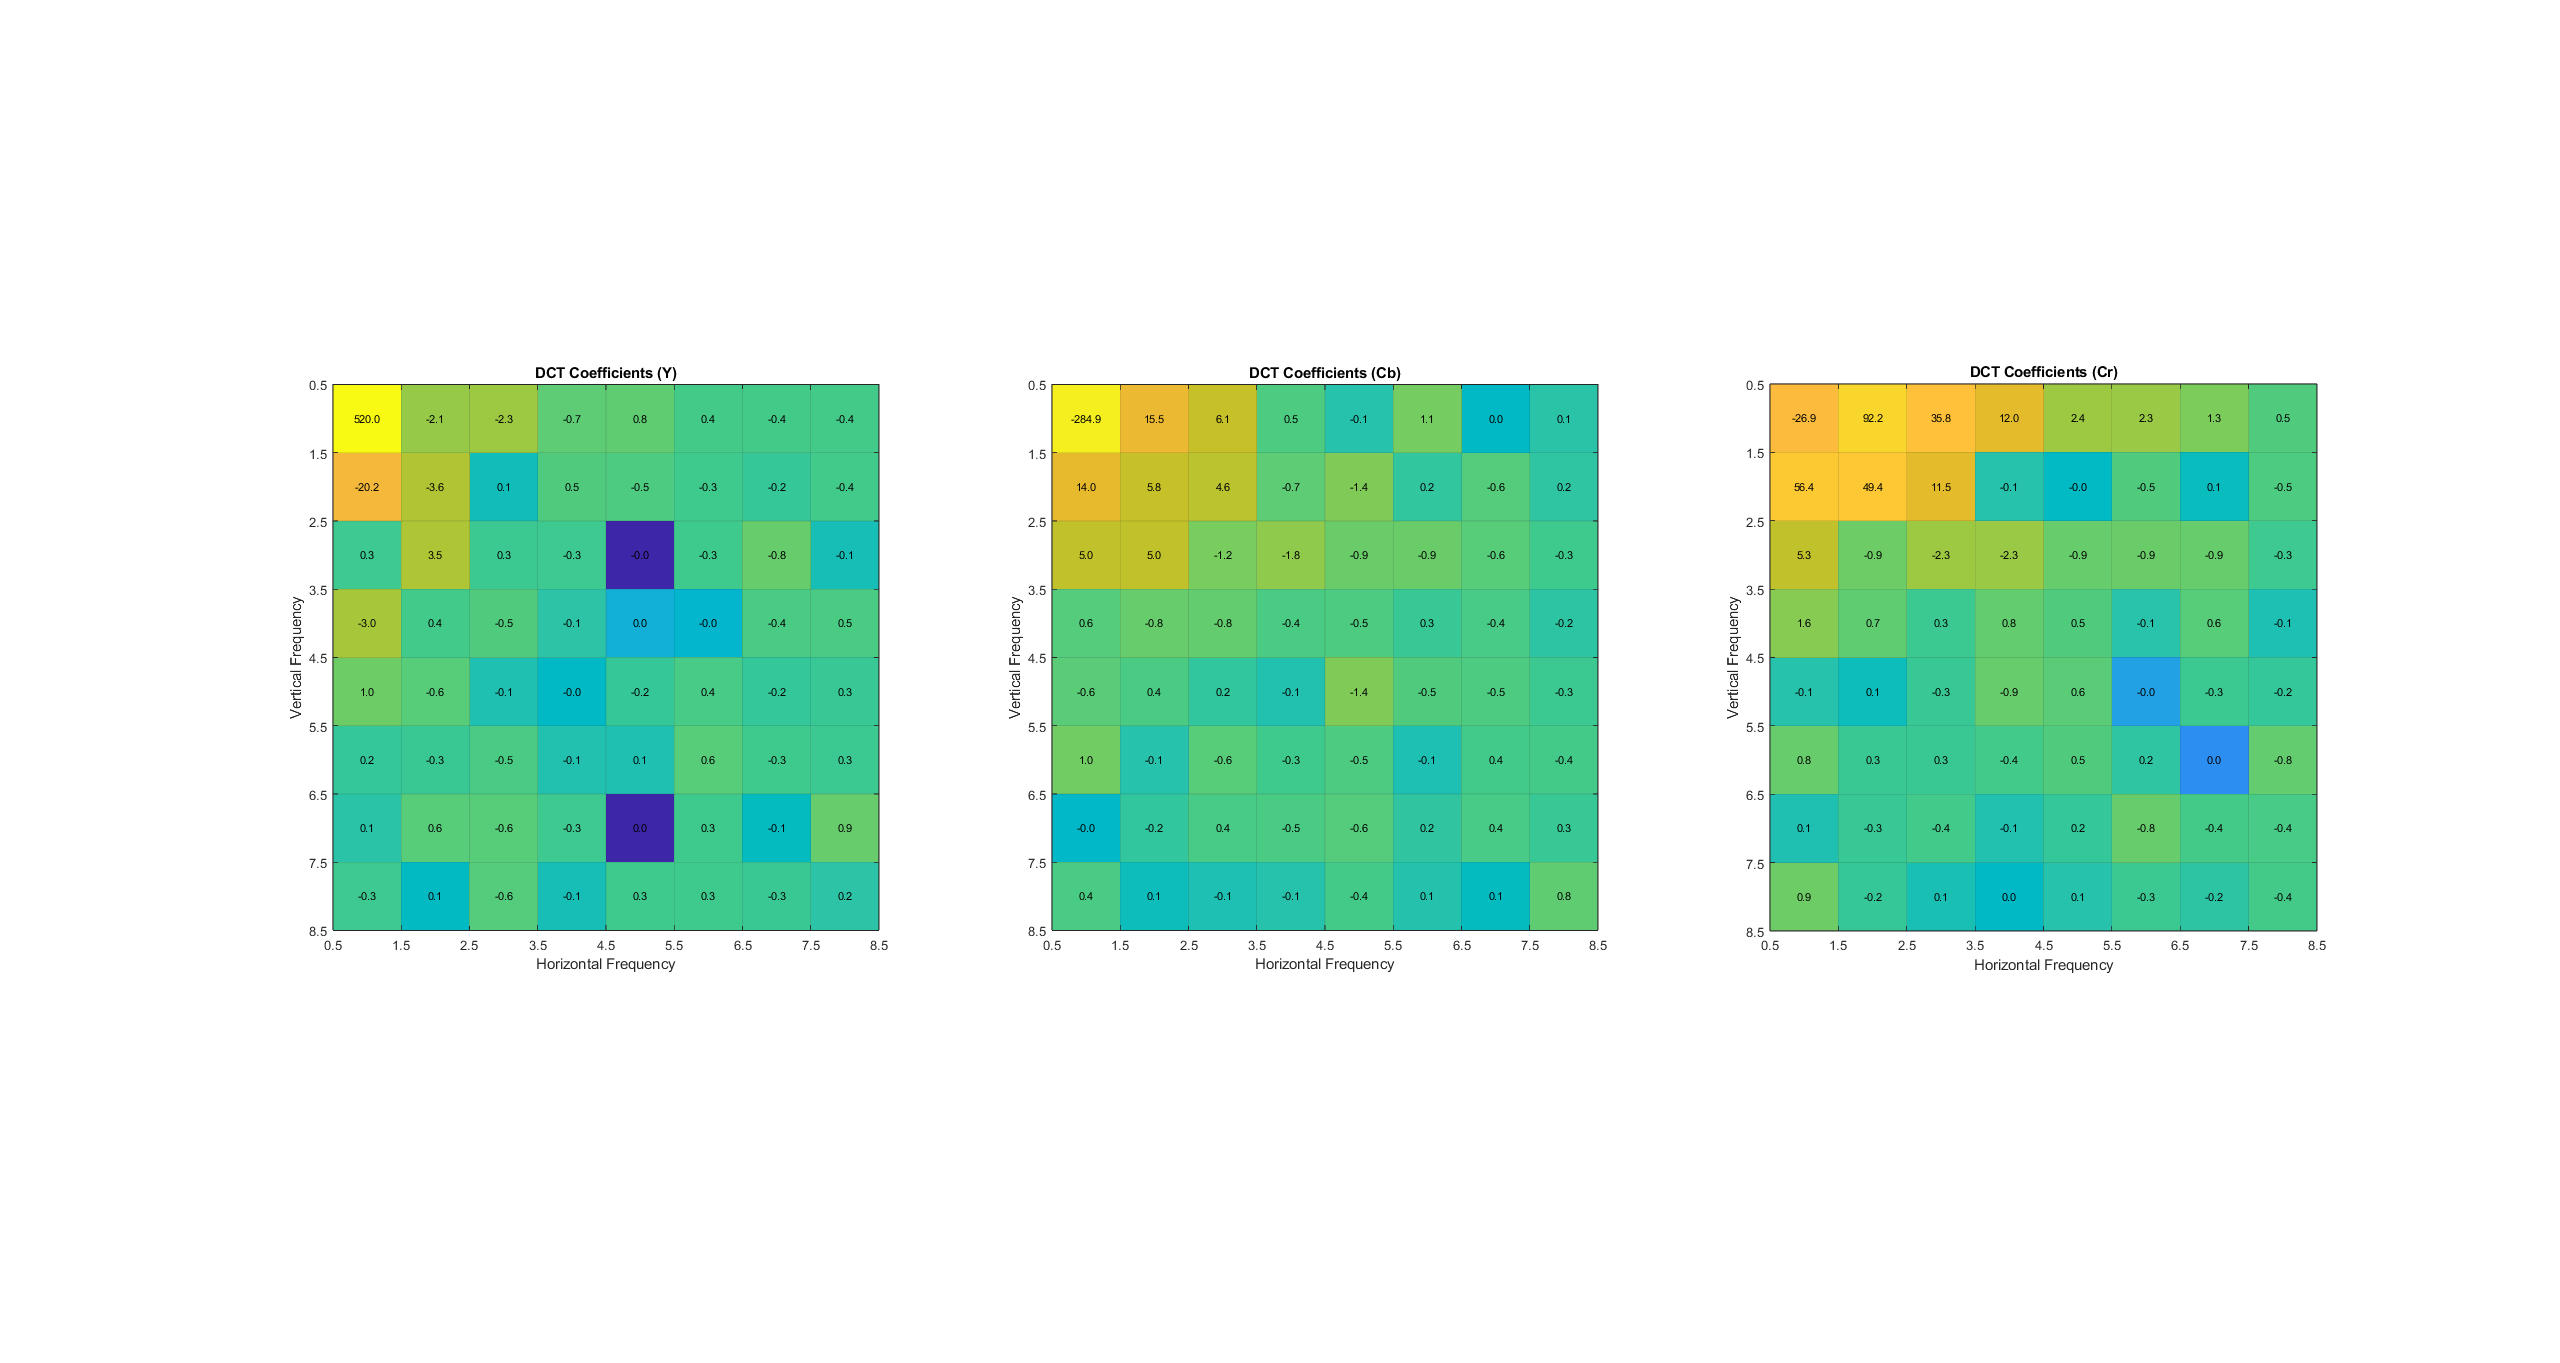
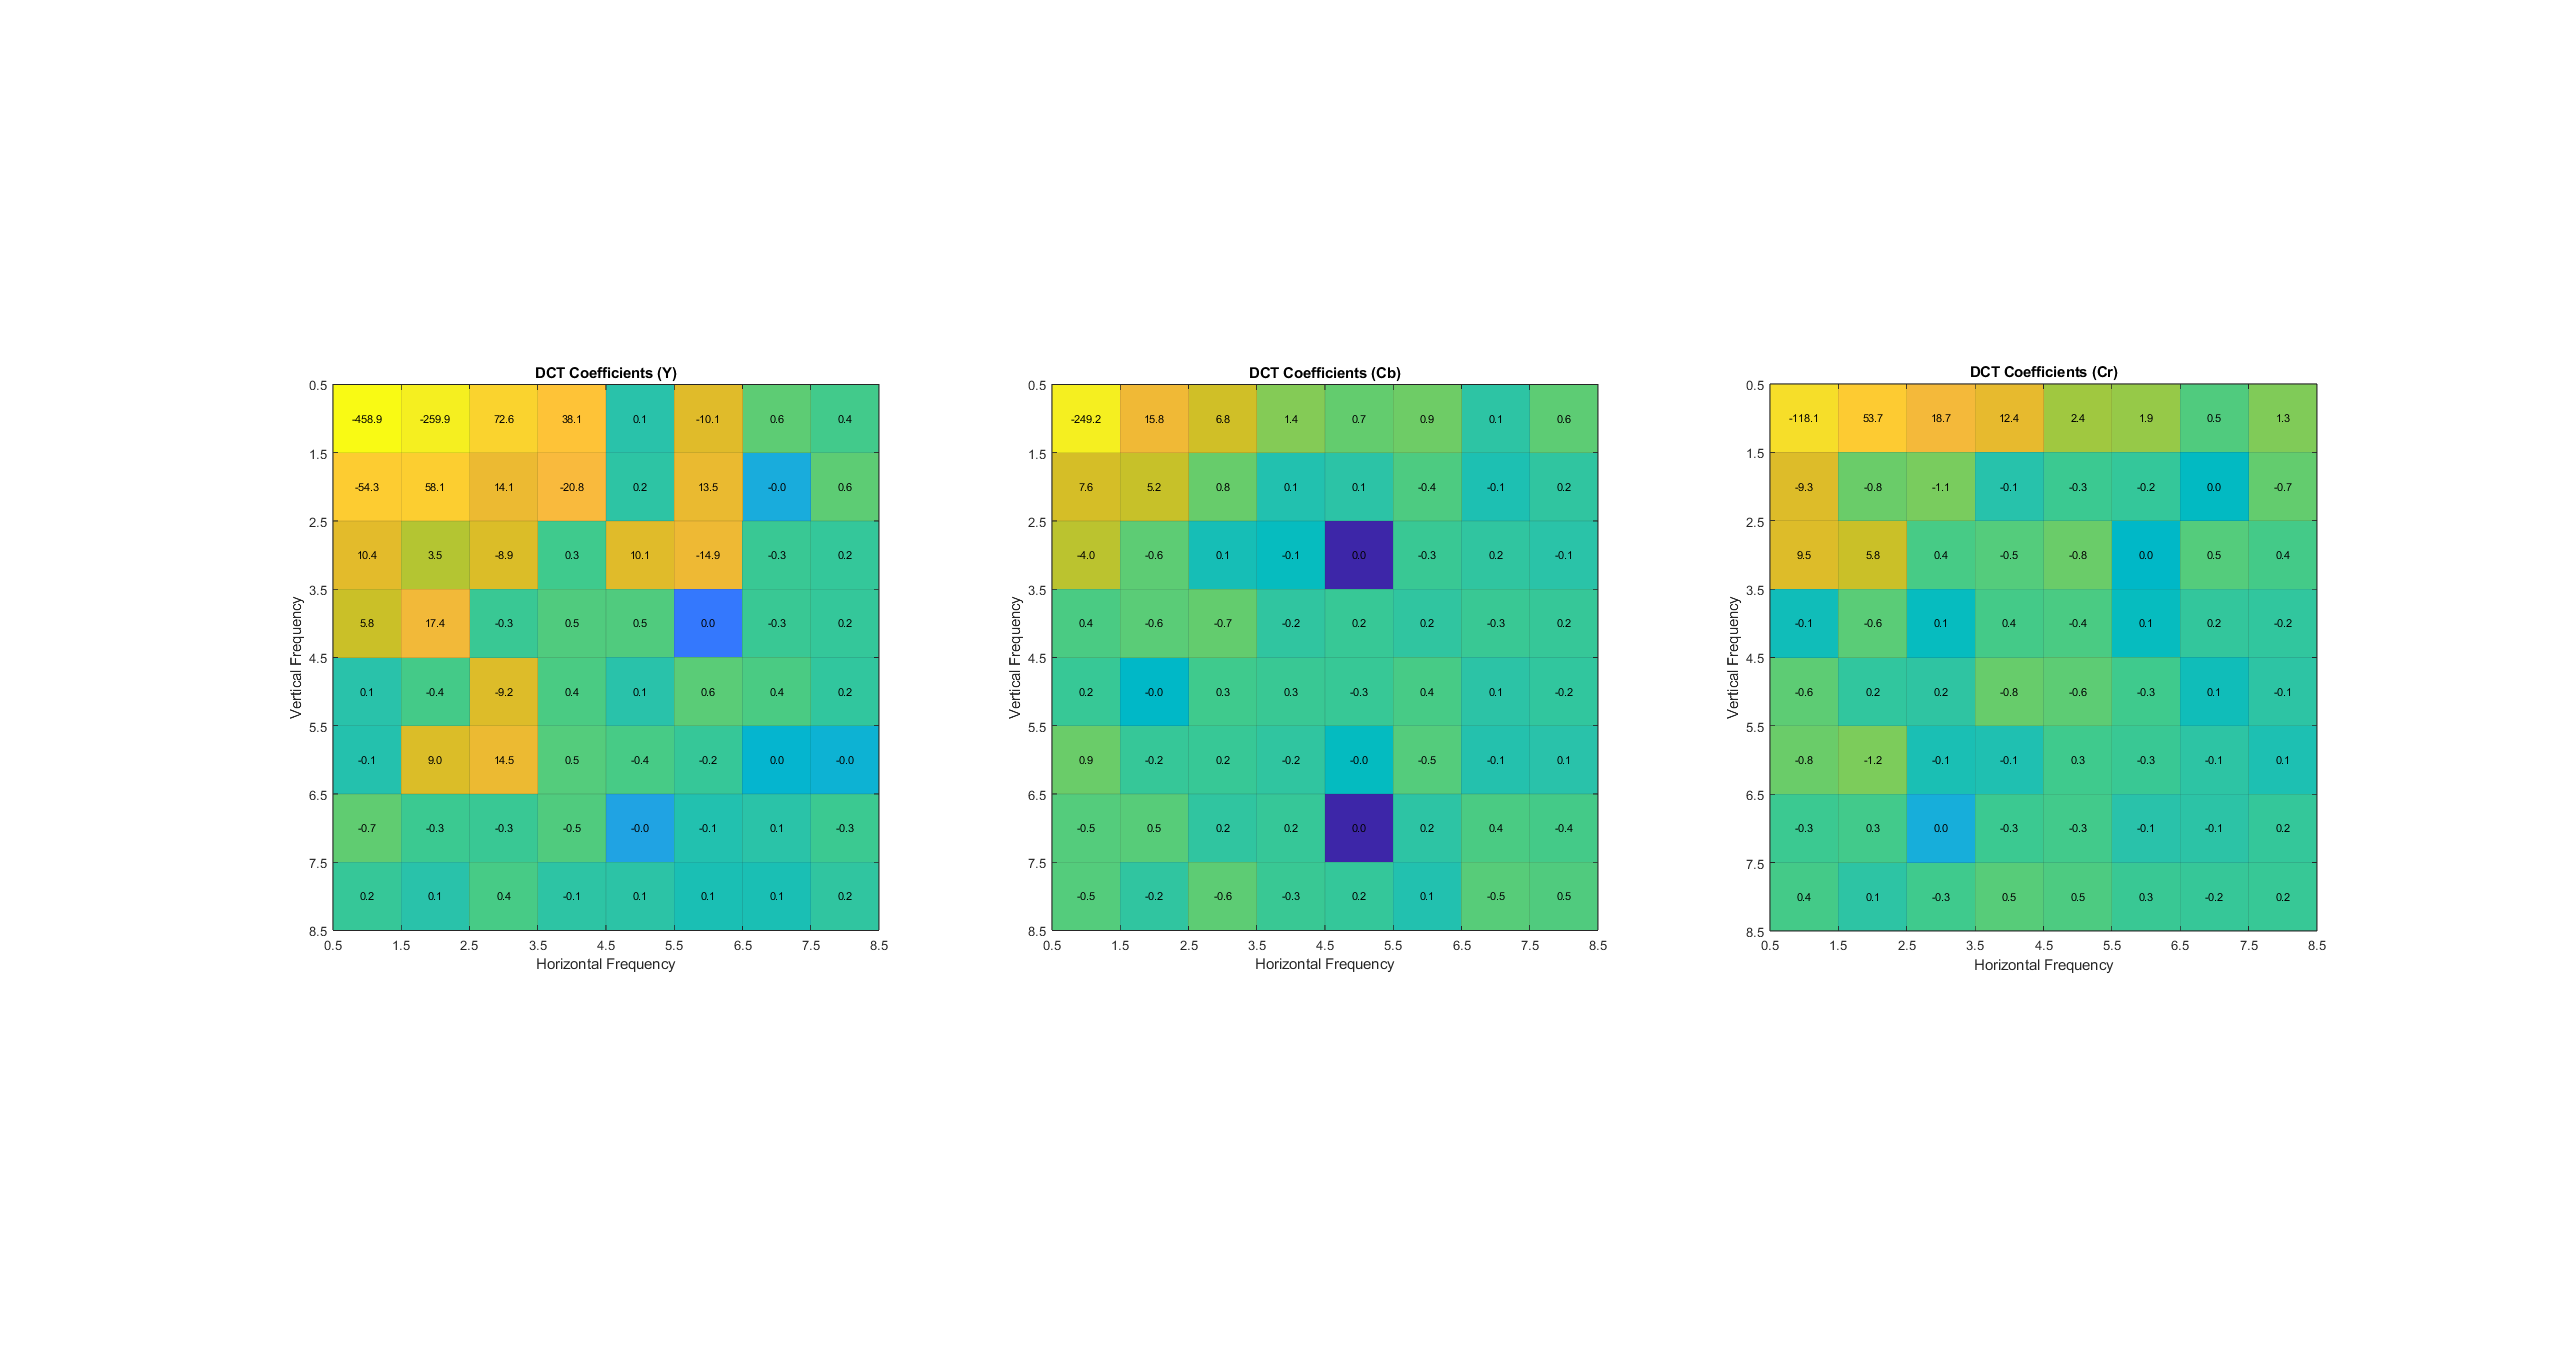
[+] - Adjusted Zigzag and RLE to account for chroma. Updated Figures included

Changed region(s): [[0.125, 0.2773, 0.3438, 0.7087], [0.6875, 0.2773, 0.9062, 0.7087], [0.4062, 0.2773, 0.625, 0.7087]]

diff --git a/ELEC3612_assignment.m b/ELEC3612_assignment.m
@@ -183,7 +183,7 @@ hold off;
 % a log-scaled version of the DCT coefficients for visualisation. A common 
 % colour scale is then determined across all channels for consistent comparison.
 
-selected_block = 100;
+selected_block = 250;
 
 % ----- Luminance Channel (Y) -----
 % Compute the DCT for each 8x8 block in the Y channel
@@ -443,34 +443,23 @@ for row = 1:8
 end
 hold off;
 
-
-
 %% ==== ZIGZAG ORDER FUNCTION ==== %%
-
 function zigzag_order = generate_zigzag_order(block_size)
-    % Purpose: Generate the zig-zag scanning order for an NxN block.
-    % Input: block_size - Size of the block
-    % Output: zigzag_order - Vector of indices in zig-zag order.
-    
+    % Generate the zig-zag scanning order for an NxN block.
+    % Input: block_size - the size of the block (e.g. 8)
+    % Output: zigzag_order - a vector of indices in zig-zag order
+
     N = block_size;
-
-    % Initialise the order vector
     zigzag_order = zeros(1, N*N); 
-
-    idx = 1; % Current position in the order vector
-    row = 1; % Start at top-left
+    idx = 1; % Current index in the order vector
+    row = 1; % Start at top-left corner
     col = 1;
-    
-    % Direction flag: true for up-right, false for down-left
-    going_up = true; 
+    going_up = true; % Direction flag: true for up-right, false for down-left
     
     while idx <= N*N
-        % Add current position to the order
         zigzag_order(idx) = (row-1)*N + col;
         idx = idx + 1;
-        
         if going_up
-            % Moving up-right
             if col == N
                 row = row + 1; % Hit right edge, move down
                 going_up = false;
@@ -478,11 +467,10 @@ function zigzag_order = generate_zigzag_order(block_size)
                 col = col + 1; % Hit top edge, move right
                 going_up = false;
             else
-                row = row - 1; % Move up
-                col = col + 1; % Move right
+                row = row - 1;
+                col = col + 1;
             end
         else
-            % Moving down-left
             if row == N
                 col = col + 1; % Hit bottom edge, move right
                 going_up = true;
@@ -490,116 +478,194 @@ function zigzag_order = generate_zigzag_order(block_size)
                 row = row + 1; % Hit left edge, move down
                 going_up = true;
             else
-                row = row + 1; % Move down
-                col = col - 1; % Move left
+                row = row + 1;
+                col = col - 1;
             end
         end
     end
 end
 
 %% ==== STEP 5: ZIG-ZAG Scanning ==== %%
+% Use the same 'selected_block' as in previous stages
+selected_block = 250;  % Ensure this is valid for all channels
 
-% Generate zig-zag order using my own function
-zigzag_order = generate_zigzag_order(block_size); 
+% Generate the zig-zag order (same for all channels)
+zigzag_order = generate_zigzag_order(block_size);
 
-% Initialise array for scanned vectors
-scanned_vectors = zeros(total_blocks, 64); 
-
-% Apply zig-zag scanning
-for k = 1:total_blocks
-    block = quantized_blocks(:,:,k);
-    scanned_vectors(k, :) = block(zigzag_order); 
+% --- Luminance (Y) ---
+scanned_vectors_Y = zeros(num_blocks_Y, block_size * block_size);
+for k = 1:num_blocks_Y
+    block = quantized_blocks_Y(:,:,k);
+    scanned_vectors_Y(k,:) = block(zigzag_order);
 end
-
-% Show the zig-zag scanned vector of the first block as a heatmap
-% Reconstruct the 8x8 block with values in their original positions
-display_block = zeros(block_size);
-first_vector = scanned_vectors(1, :);
-
+% Reconstruct the selected block from the scanned vector
+display_block_Y = zeros(block_size);
+selected_vector_Y = scanned_vectors_Y(selected_block,:);
 for idx = 1:length(zigzag_order)
     [row, col] = ind2sub([block_size, block_size], zigzag_order(idx));
-    display_block(row, col) = first_vector(idx);
+    display_block_Y(row, col) = selected_vector_Y(idx);
 end
+% Compute the log-scale version for display
+log_display_Y = log10(abs(display_block_Y) + 1e-5);
 
-% Create a heatmap with the zig-zag order overlaid
-figure('Name', 'Step 5: Zig-Zag Scanned Coefficients of First Block');
+% --- Chrominance (Cb) ---
+scanned_vectors_Cb = zeros(num_blocks_Cb, block_size * block_size);
+for k = 1:num_blocks_Cb
+    block = quantized_blocks_Cb(:,:,k);
+    scanned_vectors_Cb(k,:) = block(zigzag_order);
+end
+display_block_Cb = zeros(block_size);
+selected_vector_Cb = scanned_vectors_Cb(selected_block,:);
+for idx = 1:length(zigzag_order)
+    [row, col] = ind2sub([block_size, block_size], zigzag_order(idx));
+    display_block_Cb(row, col) = selected_vector_Cb(idx);
+end
+log_display_Cb = log10(abs(display_block_Cb) + 1e-5);
 
-imagesc(display_block); % Generate heatmap of the coefficients
+% --- Chrominance (Cr) ---
+scanned_vectors_Cr = zeros(num_blocks_Cr, block_size * block_size);
+for k = 1:num_blocks_Cr
+    block = quantized_blocks_Cr(:,:,k);
+    scanned_vectors_Cr(k,:) = block(zigzag_order);
+end
+display_block_Cr = zeros(block_size);
+selected_vector_Cr = scanned_vectors_Cr(selected_block,:);
+for idx = 1:length(zigzag_order)
+    [row, col] = ind2sub([block_size, block_size], zigzag_order(idx));
+    display_block_Cr(row, col) = selected_vector_Cr(idx);
+end
+log_display_Cr = log10(abs(display_block_Cr) + 1e-5);
 
-title('Zig-Zag Scanned Coefficients of First 8x8 Block');
-set(gca, 'XTick', 0.5:1:8.5, 'YTick', 0.5:1:8.5); % Add grid lines
-grid on;
+% ----- Visualise the Log-Scaled Zig-Zag Blocks with Global Colour Scale -----
+% Assumes global_min and global_max have been computed in Stage 4
+figure('Name', 'Step 5: Zig-Zag Scanned Coefficients (Log Scale)');
 
-% Format to overlay the zig-zag order indices on each cell
+% Luminance (Y) heatmap
+subplot(1,3,1);
+imagesc(log_display_Y);
+title(sprintf('Zig-Zag (Y), Block #%d', selected_block));
+xlabel('Horizontal Frequency');
+ylabel('Vertical Frequency');
+set(gca, 'XTick', 0.5:1:8.5, 'YTick', 0.5:1:8.5);
+grid on; axis square;
+caxis([global_min, global_max]);  % Apply common log-scale
 hold on;
 for idx = 1:length(zigzag_order)
     [row, col] = ind2sub([block_size, block_size], zigzag_order(idx));
     text(col, row, sprintf('%d', idx), 'HorizontalAlignment', 'center', ...
-         'VerticalAlignment', 'middle', 'Color', 'Black', 'FontSize', 8);
+         'VerticalAlignment', 'middle', 'Color', 'black', 'FontSize', 8);
+end
+hold off;
+
+% Chrominance (Cb) heatmap
+subplot(1,3,2);
+imagesc(log_display_Cb);
+title(sprintf('Zig-Zag (Cb), Block #%d', selected_block));
+xlabel('Horizontal Frequency');
+ylabel('Vertical Frequency');
+set(gca, 'XTick', 0.5:1:8.5, 'YTick', 0.5:1:8.5);
+grid on; axis square;
+caxis([global_min, global_max]);
+hold on;
+for idx = 1:length(zigzag_order)
+    [row, col] = ind2sub([block_size, block_size], zigzag_order(idx));
+    text(col, row, sprintf('%d', idx), 'HorizontalAlignment', 'center', ...
+         'VerticalAlignment', 'middle', 'Color', 'black', 'FontSize', 8);
+end
+hold off;
+
+% Chrominance (Cr) heatmap
+subplot(1,3,3);
+imagesc(log_display_Cr);
+title(sprintf('Zig-Zag (Cr), Block #%d', selected_block));
+xlabel('Horizontal Frequency');
+ylabel('Vertical Frequency');
+set(gca, 'XTick', 0.5:1:8.5, 'YTick', 0.5:1:8.5);
+grid on; axis square;
+caxis([global_min, global_max]);
+hold on;
+for idx = 1:length(zigzag_order)
+    [row, col] = ind2sub([block_size, block_size], zigzag_order(idx));
+    text(col, row, sprintf('%d', idx), 'HorizontalAlignment', 'center', ...
+         'VerticalAlignment', 'middle', 'Color', 'black', 'FontSize', 8);
 end
 hold off;
 
 %% ==== RUN-LENGTH ENCODING FUNCTION ==== %%
-
 function [values, counts] = rle_encode(vector)
-
-    % Initalise values and count
-    values = vector(1); 
-    counts = 1; 
-
+    % Perform run-length encoding on the input vector.
+    % Outputs:
+    %   values - the unique values in the run
+    %   counts - the count for each value in the run
+    values = vector(1);
+    counts = 1;
     for i = 2:length(vector)
-        % If the current value is the same as the previous one, increment
-        if vector(i) == vector(i-1) 
-            counts(end) = counts(end) + 1; 
+        if vector(i) == vector(i-1)
+            counts(end) = counts(end) + 1;
         else        
-            values = [values, vector(i)];  
-            counts = [counts, 1]; 
+            values = [values, vector(i)];
+            counts = [counts, 1];
         end
     end
 end
 
 %% ==== STEP 6: Run-Length Encoding (RLE) ==== %%
+% Use the same 'selected_block' so that the RLE output corresponds to 
+% the same block you have been displaying in Stages 3, 4, and 5.
 
-% Array for RLE values and counts
-rle_values = cell(1, total_blocks);
-rle_counts = cell(1, total_blocks);
+[values_Y, counts_Y] = rle_encode(scanned_vectors_Y(selected_block,:));
+[values_Cb, counts_Cb] = rle_encode(scanned_vectors_Cb(selected_block,:));
+[values_Cr, counts_Cr] = rle_encode(scanned_vectors_Cr(selected_block,:));
 
-% Encode each block
-for k = 1:total_blocks
-    [values, counts] = rle_encode(scanned_vectors(k, :)); 
-    rle_values{k} = values;
-    rle_counts{k} = counts;
+% Display the RLE output for the 'selected_block' of each channel
+figure('Name', 'Step 6: RLE Output of Selected Block', 'Position', [100, 100, 800, 600]);
+
+% Luminance (Y) RLE Output
+subplot(3,1,1);
+axis off;
+text(0.5, 0.95, sprintf('RLE Output for Luminance (Y) - Block #%d', selected_block), ...
+    'HorizontalAlignment', 'center', 'FontSize', 12, 'FontWeight', 'bold');
+text(0.1, 0.8, 'Pair Index:', 'FontSize', 12, 'FontWeight', 'bold');
+text(0.5, 0.8, 'RLE Value:', 'FontSize', 12, 'FontWeight', 'bold');
+text(0.8, 0.8, 'Count:', 'FontSize', 12, 'FontWeight', 'bold');
+num_pairs = length(values_Y);
+for i = 1:num_pairs
+    y_position = 0.75 - (i-1)*0.05;
+    text(0.1, y_position, sprintf('%d', i), 'FontSize', 10);
+    text(0.5, y_position, sprintf('%.1f', values_Y(i)), 'FontSize', 10);
+    text(0.8, y_position, sprintf('%d', counts_Y(i)), 'FontSize', 10);
 end
 
-% Get the RLE output for the first block
-values = rle_values{1};
-counts = rle_counts{1};
-
-% Create a figure to display the RLE output as a text-based table
-figure('Name', 'Step 6: RLE Output of First Block', 'Position', [100, 100, 800, 200]);
-
-% Format Table
+% Chrominance (Cb) RLE Output
+subplot(3,1,2);
 axis off;
-xlim([0 1]);
-ylim([0 1]);
-set(gca, 'Color', 'w');
-
-% Display the title
-text(0.5, 0.95, 'RLE Output of First 8x8 Block', ...
-     'HorizontalAlignment', 'center', 'FontSize', 12, 'FontWeight', 'bold');
-
-% Display column headers
-text(0.1, 0.8, 'Pair Index:', 'FontSize', 15, 'FontWeight', 'bold');
-text(0.5, 0.8, 'RLE Value:', 'FontSize', 15, 'FontWeight', 'bold');
-text(0.8, 0.8, 'Count:', 'FontSize', 15, 'FontWeight', 'bold');
-
-% Display each RLE pair (index, value, count) as a row in the table
-num_pairs = length(values);
-for i = 1:min(num_pairs, 10) 
-    y_position = 0.75 - (i-1) * 0.05; % To stack rows vertically
+text(0.5, 0.95, sprintf('RLE Output for Chrominance (Cb) - Block #%d', selected_block), ...
+    'HorizontalAlignment', 'center', 'FontSize', 12, 'FontWeight', 'bold');
+text(0.1, 0.8, 'Pair Index:', 'FontSize', 12, 'FontWeight', 'bold');
+text(0.5, 0.8, 'RLE Value:', 'FontSize', 12, 'FontWeight', 'bold');
+text(0.8, 0.8, 'Count:', 'FontSize', 12, 'FontWeight', 'bold');
+num_pairs = length(values_Cb);
+for i = 1:num_pairs
+    y_position = 0.75 - (i-1)*0.05;
     text(0.1, y_position, sprintf('%d', i), 'FontSize', 10);
-    text(0.5, y_position, sprintf('%.1f', values(i)), 'FontSize', 10);
-    text(0.8, y_position, sprintf('%d', counts(i)), 'FontSize', 10);
+    text(0.5, y_position, sprintf('%.1f', values_Cb(i)), 'FontSize', 10);
+    text(0.8, y_position, sprintf('%d', counts_Cb(i)), 'FontSize', 10);
+end
+
+% Chrominance (Cr) RLE Output
+subplot(3,1,3);
+axis off;
+text(0.5, 0.95, sprintf('RLE Output for Chrominance (Cr) - Block #%d', selected_block), ...
+    'HorizontalAlignment', 'center', 'FontSize', 12, 'FontWeight', 'bold');
+text(0.1, 0.8, 'Pair Index:', 'FontSize', 12, 'FontWeight', 'bold');
+text(0.5, 0.8, 'RLE Value:', 'FontSize', 12, 'FontWeight', 'bold');
+text(0.8, 0.8, 'Count:', 'FontSize', 12, 'FontWeight', 'bold');
+num_pairs = length(values_Cr);
+for i = 1:num_pairs
+    y_position = 0.75 - (i-1)*0.05;
+    text(0.1, y_position, sprintf('%d', i), 'FontSize', 10);
+    text(0.5, y_position, sprintf('%.1f', values_Cr(i)), 'FontSize', 10);
+    text(0.8, y_position, sprintf('%d', counts_Cr(i)), 'FontSize', 10);
 end
 
 %% ==== STEP 7: Image Reconstruction ==== %%
